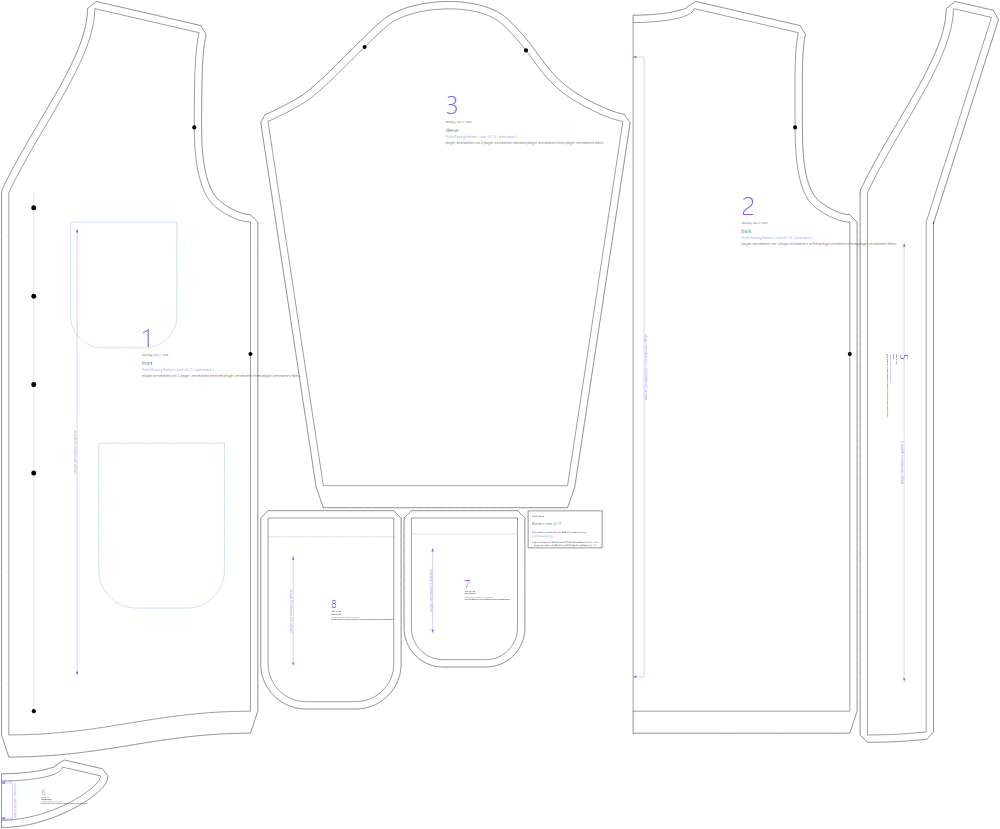
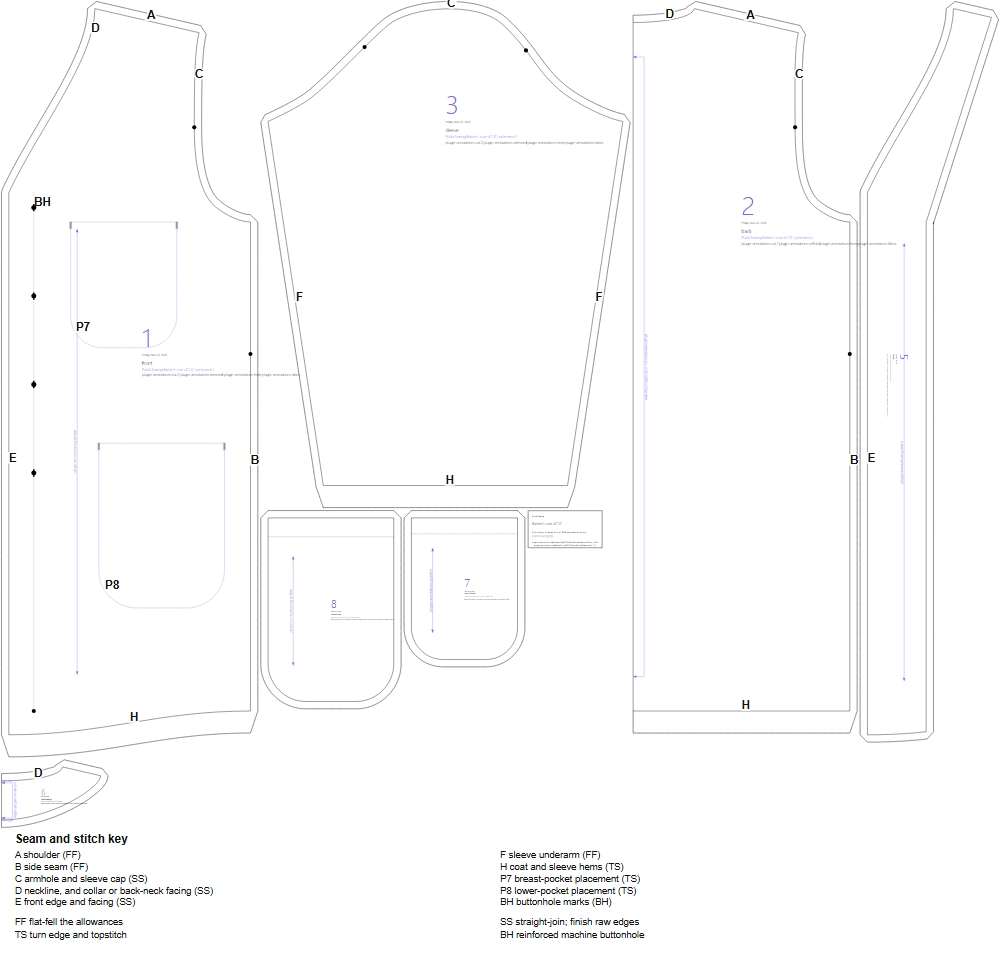
Map the barber's coat, stand collar or open neck
Its map follows the chore coat's, with the collar and back-neck facing anchors
optional by neck style and the front neckline anchored on the seam in both.
Buttonhole marks are drafted, so the painter's and pyjama jackets gain them too;
they opt out of the inherited map (patternMap: false) until mapped themselves.

diff --git a/designs/barbers-coat/BRIEF.md b/designs/barbers-coat/BRIEF.md
@@ -47,9 +47,14 @@ The body and sleeve are the work coat's (the chore coat's rules).
 - the shared coat checks;
 - for the open neck, the front facing meets the back neck facing at the shoulder.
 
-## Construction
+## Construction (our words)
+The letters below identify matching seam lines in the pattern map. Numbers are printed on the pattern pieces. Stitch codes in the map and steps mean: **FF** flat-felled seam (join with a straight stitch, fold one allowance over the other, then topstitch it down); **SS** straight-stitch seam (finish the raw allowances as directed); **TS** visible topstitching close to a folded edge; **BH** machine buttonhole stitch. These are proposed sewing methods for this unsewn draft.
 
-1. Interface the front facings and, for the high-neck version, one standing-collar layer. Finish the patch-pocket tops, press the other edges under, and topstitch the pockets to the fronts.
-2. Sew the shoulder and side seams. Make the collar and attach it to the neckline for Diagram X; for the open-neck version, join the back-neck facing to the front facings at the shoulders.
-3. Sew the facings to the front and neck edges, turn and press. Set in the sleeves and close their underarm seams.
-4. Hem the coat and sleeves, then work the four buttonholes and attach the buttons at the marked centres. The concealed fly suggested by the source is not made here.
+1. Interface the facings **5** and, for the stand collar, one collar layer **4**; for the open neck, the back-neck facing **6**.
+2. Hem the top edges of breast pocket **7** and lower pockets **8**. Press their other allowances under and use **TS** to attach them at marks **P7** and **P8** on fronts **1**.
+3. Join front **1** to back **2** at shoulders **A** with **FF**. Leave side seams **B** open for setting the sleeves flat.
+4. Stand collar: join the collar layers **4** along outer edge **G** with **SS**, turn and press, and attach it to neckline **D** of fronts **1** and back **2**. Open neck: join the back-neck facing **6** to the facings at the shoulders, to be sewn to neckline **D** with them.
+5. Join facings **5** to front edges **E** of fronts **1** with **SS**, and along the neck for the open style. Trim, turn and press, and finish the facings' inner edges.
+6. Set sleeves **3** into armholes **C** of fronts **1** and back **2** with **SS** while the underarm is open. Close sleeve underarm **F** and side seam **B** in one run with **FF**.
+7. Turn up the hems of fronts **1**, back **2** and sleeves **3** and use **TS** along hem edges **H**.
+8. Work the four **BH** at the marked positions on the right front **1** and sew buttons at the marked centres. The concealed fly suggested by the source is not made here.
